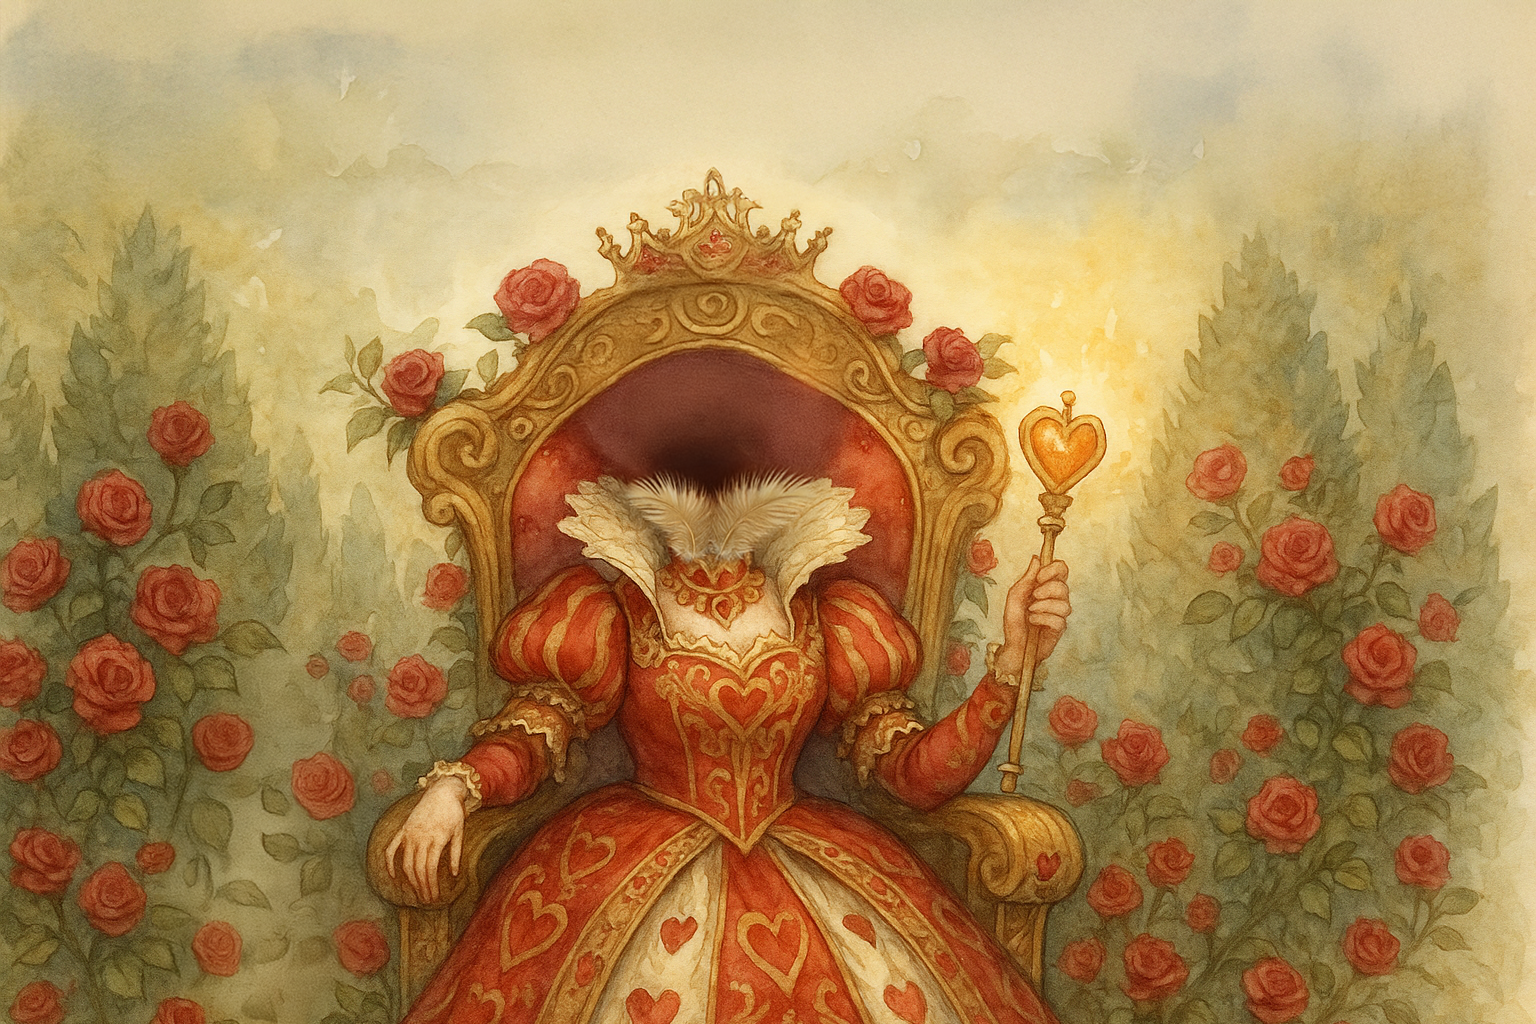
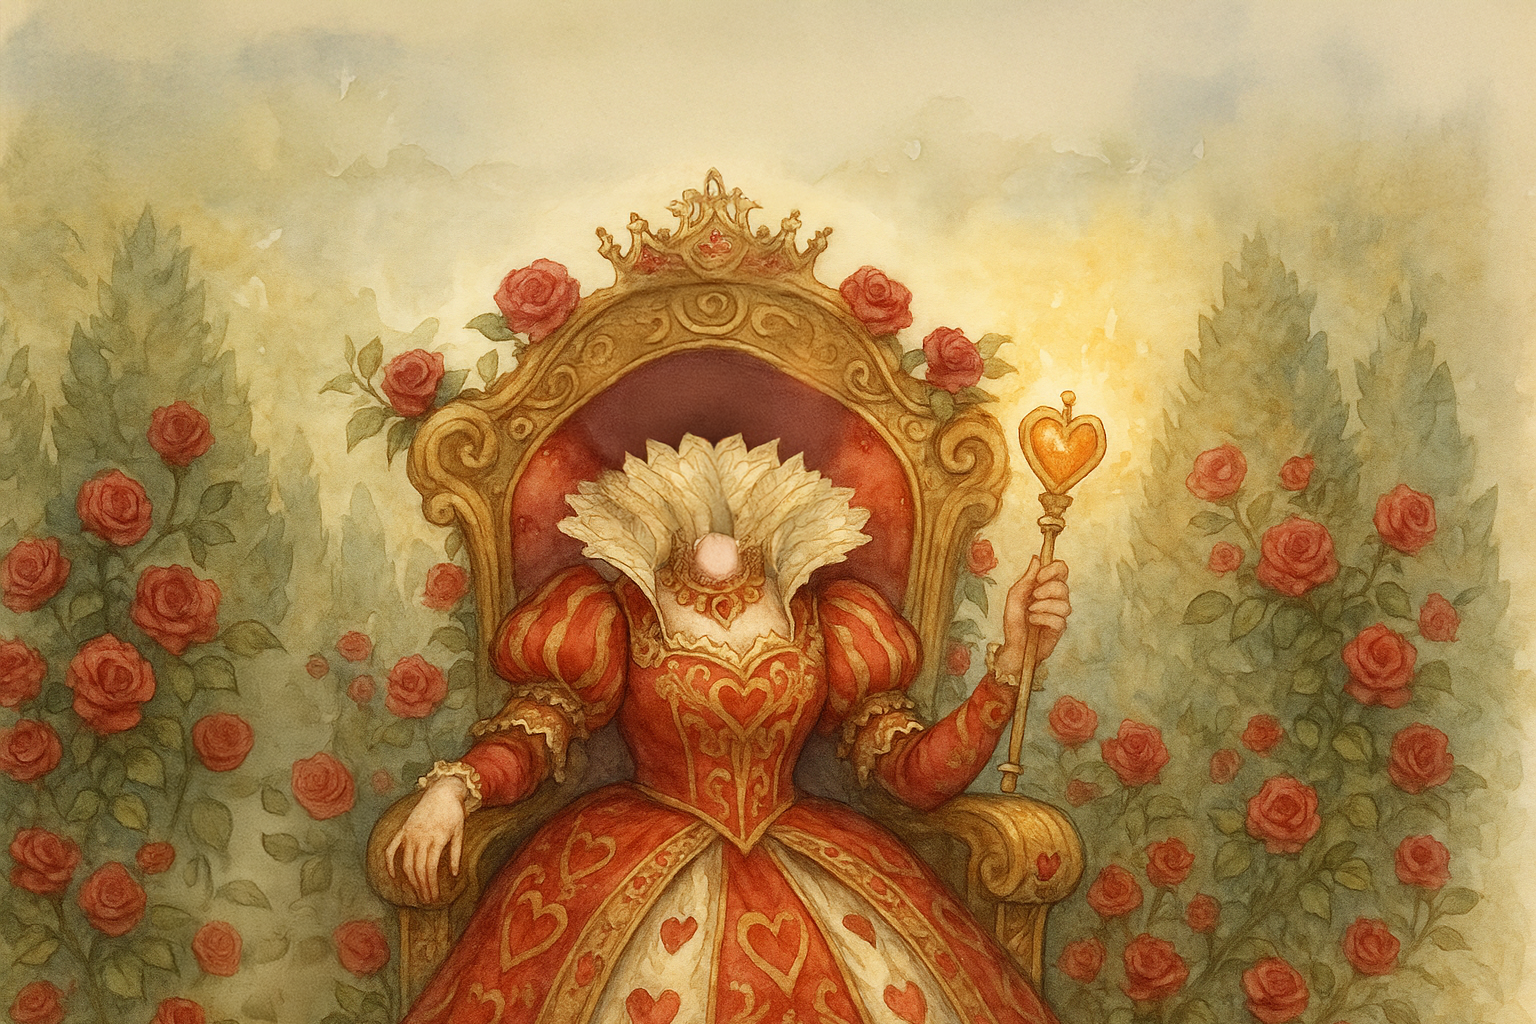
updated Scene components and styles for improved animations and layout; update footer and navigation padding for consistency

Changed region(s): [[0.375, 0.4062, 0.5312, 0.5938]]

diff --git a/JordiCourseproject/src/components/fairtytale/Scene5.tsx b/JordiCourseproject/src/components/fairtytale/Scene5.tsx
@@ -7,15 +7,12 @@ const Scene5 = () => {
 	//references
 	const sectionRef = useRef(null);
 	const audioRef = useRef<HTMLAudioElement>(null);
+	const constraintsRef = useRef(null);
 
 	const { scrollYProgress } = useScroll({
 		target: sectionRef,
 		offset: ["start end", "end start"],
 	});
-
-	//map scrollYProgress to y and scale values
-	const y = useTransform(scrollYProgress, [0, 1], [-70, -220]);
-	const scale = useTransform(scrollYProgress, [0, 1], [1, 1.8]);
 
 	//play/pause audio based on scroll progress
 	useEffect(() => {
@@ -36,7 +33,7 @@ const Scene5 = () => {
 	const handleScrollTop = () => {
 		console.log;
 		("Scroll to top clicked");
-		window.scrollTo({ top: 0, behavior: "smooth" });
+		window.scrollTo({ top: 0, behavior: "instant" });
 	};
 
 	return (
@@ -48,14 +45,9 @@ const Scene5 = () => {
 					{/* image that scrolls u to top */}
 					<img src={`${base}door.png`} alt="Scroll to top" className="interactive-image doorbutton" onClick={handleScrollTop} />
 					{/* image that grows as you scroll */}
-					<motion.img
-						src={`${base}head.png`}
-						className="growing-image"
-						style={{
-							y, // adjust for growing effect
-							scale,
-						}}
-					/>
+					<div ref={constraintsRef} className="drag-area">
+						<motion.img src={`${base}head.png`} className="draggable-image" drag dragMomentum={false} dragConstraints={constraintsRef} />
+					</div>
 				</div>
 			</div>
 

diff --git a/JordiCourseproject/src/components/fairtytale/Scene2.tsx b/JordiCourseproject/src/components/fairtytale/Scene2.tsx
@@ -14,8 +14,6 @@ const Scene2 = () => {
 	});
 
 	//floating animations
-	const floatX = useTransform(scrollYProgress, [0, 1], ["-10px", "10px"]);
-	const floatY = useTransform(scrollYProgress, [0, 1], ["10px", "-10px"]);
 	const rotate = useTransform(scrollYProgress, [0, 1], ["-100deg", "100deg"]);
 
 	//play/pause audio based on scrollYProgress
@@ -43,17 +41,17 @@ const Scene2 = () => {
 			<div className="scene-sticky">
 				<div className="background-image" />
 				<img src={`${base}fallingalice.png`} className="centerpiece" alt="falling alice" />
-				<motion.div className="floating-item item1" style={{ x: floatX, y: floatY, rotate }}>
+				<motion.div className="floating-item item1" style={{ rotate }}>
 					<img src={`${base}items1.png`} alt="Floating Item 1" />
 				</motion.div>
 
-				<motion.div className="floating-item item2" style={{ x: floatY, y: floatX, rotate }}>
+				<motion.div className="floating-item item2" style={{ rotate }}>
 					<img src={`${base}items2.png`} alt="Floating Item 2" />
 				</motion.div>
 			</div>
 
 			<audio ref={audioRef} loop preload="auto">
-				<source src={`${base}soundscene2.mp3`} type="audio/mpeg" />
+				<source src={`${base}soundscene2.mp3`} type="audio/mpeg" />{" "}
 			</audio>
 		</section>
 	);

diff --git a/JordiCourseproject/src/pages/Fairytale.tsx b/JordiCourseproject/src/pages/Fairytale.tsx
@@ -27,7 +27,7 @@ const Fairytale = () => {
 			</PlayingCard>
 			<Scene1 />
 			<PlayingCard suit="♠" value="7">
-				Ze liep en liep en liep, het konijn net binnen handbereik. maar net toen ze hem bijna te pakken had, verdween de grond onder haar voeten.
+				Ze liep en liep en liep, het konijn net binnen handbereik. maar net toen ze hem bijna te pakken had, verdween de grond onder haar.
 			</PlayingCard>
 			<Scene2 />
 			<PlayingCard suit="♦" value="3">
@@ -35,11 +35,11 @@ const Fairytale = () => {
 			</PlayingCard>
 			<Scene3 />
 			<PlayingCard suit="♣" value="9">
-				Na eindelijk klein genoeg te zijn, paste alice door het kleine deurtje. en aan de andere kant… wachtte een nieuw gezicht dat ze nog nooit had gezien.
+				Na eindelijk klein genoeg te zijn, paste alice door het kleine deurtje. Aan de andere kant… wachtte een nieuw gezicht dat ze nog nooit had gezien.
 			</PlayingCard>
 			<Scene4 />
 			<PlayingCard suit="♥" value="Q">
-				Na een bizar theefeest werd alice plots meegenomen. voordat ze het wist, stond ze oog in oog met de hartenkoningin.
+				Na een bizar theefeest werd alice plots meegenomen. Voordat ze het wist, stond ze oog in oog met de hartenkoningin.
 			</PlayingCard>
 			<Scene5 />
 		</div>

diff --git a/JordiCourseproject/src/styles/fairytale/Fairytale.scss b/JordiCourseproject/src/styles/fairytale/Fairytale.scss
@@ -1,14 +1,14 @@
 .fairytale {
 	background: linear-gradient(to bottom, white, rgb(354, 252, 241) 1%);
-	position: relative; 
+	position: relative;
 
 	//center and size the name image
 	.name {
 		display: block;
 		width: 60vw;
 		height: auto;
-		margin: 0 auto 2vh auto;
-		// fade out the edges
+		margin: 0 auto -25vh auto;
+		//fade out the edges
 		-webkit-mask-image: linear-gradient(to right, transparent 0%, black 10%, black 90%, transparent 100%), linear-gradient(to bottom, transparent 0%, black 10%, black 90%, transparent 100%);
 		-webkit-mask-composite: intersect;
 		mask-image: linear-gradient(to right, transparent 0%, black 10%, black 90%, transparent 100%), linear-gradient(to bottom, transparent 0%, black 10%, black 90%, transparent 100%);
@@ -17,7 +17,7 @@
 
 	//optional: spacing for all playing cards
 	.playing-card {
-		margin: 3rem auto;
+		margin: auto;
 	}
 
 	.scroll-line {
@@ -25,8 +25,8 @@
 		top: 15vh; //start under the image
 		left: 50%;
 		width: 2px;
-		height: 100%;
-		background-color: #333;
+		height: 99.3%;
+		background-color: rgb(208, 175, 91);
 		transform: translateX(-50%);
 		transform-origin: top;
 		pointer-events: none;

diff --git a/JordiCourseproject/src/styles/fairytale/Scene4.scss b/JordiCourseproject/src/styles/fairytale/Scene4.scss
@@ -1,6 +1,13 @@
 .scene4 {
 	position: relative;
 	height: 300vh;
+	//fade top and bottom
+	-webkit-mask-image: linear-gradient(to bottom, transparent 0%, black 2%, black 98%, transparent 100%);
+	mask-image: linear-gradient(to bottom, transparent 0%, black 2%, black 98%, transparent 100%);
+	-webkit-mask-repeat: no-repeat;
+	mask-repeat: no-repeat;
+	-webkit-mask-size: 100% 100%;
+	mask-size: 100% 100%;
 
 	.scene-sticky {
 		position: sticky;
@@ -27,13 +34,13 @@
 		display: flex;
 		flex-direction: row;
 		align-items: center;
-		justify-content: flex-end; 
+		justify-content: flex-end;
 		gap: 3rem;
 		width: 100%;
 	}
 
 	.interactive-image {
-		width: 200px;
+		width: 10vw;
 		transition: transform 0.3s;
 
 		&:hover {
@@ -44,7 +51,7 @@
 		position: fixed;
 		inset: 0;
 		width: 50vw;
-		height: 50vh;
+		height: 80vh;
 		margin: auto;
 
 		//background: red;
@@ -61,7 +68,7 @@
 	}
 	.model-trigger {
 		width: 7vw;
-		margin-right: 15vw;
+		margin-right: 16vw;
 		margin-top: 70vh;
 	}
 }

diff --git a/JordiCourseproject/src/styles/fairytale/Scene5.scss b/JordiCourseproject/src/styles/fairytale/Scene5.scss
@@ -1,6 +1,13 @@
 .scene5 {
 	position: relative;
 	height: 300vh;
+	//fade top and bottom
+	-webkit-mask-image: linear-gradient(to bottom, transparent 0%, black 2%, black 98%, transparent 100%);
+	mask-image: linear-gradient(to bottom, transparent 0%, black 2%, black 98%, transparent 100%);
+	-webkit-mask-repeat: no-repeat;
+	mask-repeat: no-repeat;
+	-webkit-mask-size: 100% 100%;
+	mask-size: 100% 100%;
 
 	.scene-sticky {
 		position: sticky;
@@ -31,25 +38,26 @@
 	}
 
 	.interactive-image {
-		width: 200px;
 		transition: transform 0.3s;
 		cursor: pointer;
-
-		&:hover {
-			transform: scale(1.05);
-		}
-	}
-
-	.growing-image {
-		margin-left: -6.6vw; 
-	}
-
-	.doorbutton {
 		cursor: pointer;
 		z-index: 10;
 		position: absolute;
 		left: 11%;
 		top: 50%;
 		pointer-events: auto;
+
+		&:hover {
+			transform: scale(1.05);
+		}
+	}
+	.drag-area {
+		position: relative;
+		width: 80%;
+		height: 200%;
+		.draggable-image {
+			margin-left: 35%;
+			margin-bottom: 25vh;
+		}
 	}
 }

diff --git a/JordiCourseproject/src/styles/fairytale/Scene2.scss b/JordiCourseproject/src/styles/fairytale/Scene2.scss
@@ -1,6 +1,13 @@
 .scene2 {
 	position: relative;
 	height: 300vh;
+	//fade top and bottom
+	-webkit-mask-image: linear-gradient(to bottom, transparent 0%, black 2%, black 98%, transparent 100%);
+	mask-image: linear-gradient(to bottom, transparent 0%, black 2%, black 98%, transparent 100%);
+	-webkit-mask-repeat: no-repeat;
+	mask-repeat: no-repeat;
+	-webkit-mask-size: 100% 100%;
+	mask-size: 100% 100%;
 
 	.scene-sticky {
 		position: sticky;
@@ -29,23 +36,20 @@
 	.floating-item {
 		position: absolute;
 		width: 90vw;
-		left: 0%;
+		left: -3vw;
 		top: -10vh;
 		pointer-events: none;
 
-		//background-color: red;
-
-		// Optional transition smoothing
 		will-change: transform;
 	}
 
 	.item1 {
 		z-index: 2;
-		left: -2%;
+		//background-color: rgba(255, 0, 0, 0.3);
 	}
 
 	.item2 {
 		z-index: 0;
-		left: -5%;
+		//	background-color: rgba(255, 242, 0, 0.3);
 	}
 }

diff --git a/JordiCourseproject/src/styles/fairytale/PlayingCard.scss b/JordiCourseproject/src/styles/fairytale/PlayingCard.scss
@@ -1,12 +1,13 @@
 .playing-card {
 	background: rgb(354, 270, 271);
 	border: 0.3vh solid rgb(144, 127, 82);
-	border-radius: 1rem;
-	padding: 1.5rem;
+	border-radius: 2vw;
+	padding: 2vw;
 	margin: 50vh auto !important;
 	width: 80%;
-	max-width: 600px;
-	box-shadow: 0 4px 12px rgba(0, 0, 0, 0.1);
+	max-width: 50vw;
+	box-shadow: 1.5vh 1.5vh 2vh rgba(0, 0, 0, 0.1);
+
 	position: relative;
 	font-family: "Georgia", serif;
 	text-align: center;
@@ -18,13 +19,13 @@
 	}
 
 	.top {
-		top: 0.5rem;
-		left: 1rem;
+		top: 1vh;
+		left: 1vw;
 	}
 
 	.bottom {
-		bottom: 0.5rem;
-		right: 1rem;
+		bottom: 1vh;
+		right: 1vw;
 		transform: rotate(180deg);
 	}
 
@@ -32,6 +33,6 @@
 		color: #333;
 		font-size: 4vh;
 		line-height: 1.6;
-		padding-top: 1.5rem;
+		padding: 4vh 0vh;
 	}
 }

diff --git a/JordiCourseproject/src/components/fairtytale/Scene4.tsx b/JordiCourseproject/src/components/fairtytale/Scene4.tsx
@@ -70,7 +70,8 @@ const Scene4 = () => {
 				<div className="model-overlay" onClick={() => setOrbitActive(true)}>
 					<Canvas>
 						<OrbitControls enableDamping enabled={orbitActive} enableZoom={false} />
-						<Environment preset="sunset" />
+						<Environment preset="forest" blur={100} />
+
 						<Model />
 					</Canvas>
 				</div>
@@ -87,7 +88,11 @@ const Scene4 = () => {
 //laadt en toont het .glb 3d model
 function Model() {
 	const { scene } = useGLTF(`${base}watch.glb`);
-	return <primitive object={scene} scale={5} position={[0, -1, 0]} />;
+	return (
+		<group position={[1.5, -0.5, 0]} rotation={[0, Math.PI, 0]}>
+			<primitive object={scene} scale={5} />
+		</group>
+	);
 }
 
 //preload het model zodat het sneller wordt geladen wanneer nodig

diff --git a/JordiCourseproject/src/styles/fairytale/Scene3.scss b/JordiCourseproject/src/styles/fairytale/Scene3.scss
@@ -1,6 +1,13 @@
 .scene3 {
 	position: relative;
 	height: 300vh; // or whatever scroll height you want
+	//fade top and bottom
+	-webkit-mask-image: linear-gradient(to bottom, transparent 0%, black 2%, black 98%, transparent 100%);
+	mask-image: linear-gradient(to bottom, transparent 0%, black 2%, black 98%, transparent 100%);
+	-webkit-mask-repeat: no-repeat;
+	mask-repeat: no-repeat;
+	-webkit-mask-size: 100% 100%;
+	mask-size: 100% 100%;
 
 	.scene-sticky {
 		position: sticky;

diff --git a/JordiCourseproject/src/styles/fairytale/Scene1.scss b/JordiCourseproject/src/styles/fairytale/Scene1.scss
@@ -1,6 +1,13 @@
 .scene1 {
 	height: 300vh; // gives space to scroll through
 	position: relative;
+	//fade top and bottom
+	-webkit-mask-image: linear-gradient(to bottom, transparent 0%, black 2%, black 98%, transparent 100%);
+	mask-image: linear-gradient(to bottom, transparent 0%, black 2%, black 98%, transparent 100%);
+	-webkit-mask-repeat: no-repeat;
+	mask-repeat: no-repeat;
+	-webkit-mask-size: 100% 100%;
+	mask-size: 100% 100%;
 
 	.scene-sticky {
 		position: sticky;

diff --git a/JordiCourseproject/src/styles/portal/Footer.scss b/JordiCourseproject/src/styles/portal/Footer.scss
@@ -3,7 +3,7 @@
 	justify-content: space-between;
 	align-items: center;
 	background-color: #ebf5ec;
-	padding: 0vh 15vw;
+	padding: 0vh 14.8vw;
 	height: 30vh;
 	width: 70%;
 	margin: 0 auto;
